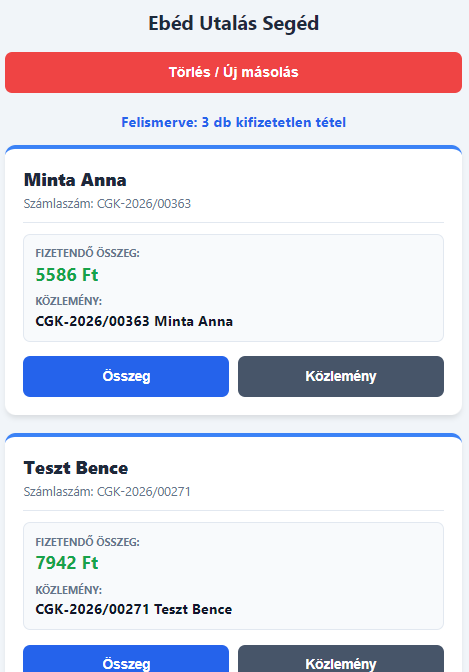
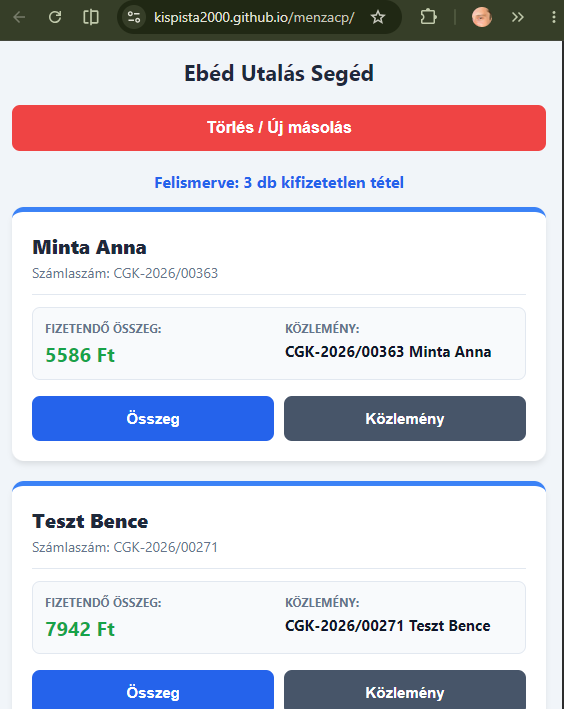
readme Elek

diff --git a/README.md b/README.md
@@ -45,6 +45,6 @@ A táblázatból kimásolt szöveg a vágólapon általában így néz ki (össz
 ÉtkezőSzámla összesenKedvezményKiállításFiz. határidőFiz. módTeljesítés idejeCGK-2026/00363Minta Anna5 586 Ft
 5 586 Ft2026.09.01.2026.09.11.utalásCGK-2026/00361Minta Anna-11 172 Ft
 0 Ft2026.09.01.2026.09.11.utalás2026-09-01 13:24:55CGK-2026/00271Teszt Bence7 942 Ft
-0 Ft2026.08.28.2026.09.09.utalásCGK-2026/00223Kovács Lili11 172 Ft
-0 Ft2026.08.28.2026.09.09.utalás2026-09-01 13:24:59CGK-2026/00099Kovács Lili14 193 Ft
+0 Ft2026.08.28.2026.09.09.utalásCGK-2026/00223Minta Anna11 172 Ft
+0 Ft2026.08.28.2026.09.09.utalás2026-09-01 13:24:59CGK-2026/00099Próba Elek14 193 Ft
 0 Ft2026.08.28.2026.09.09.utalás
